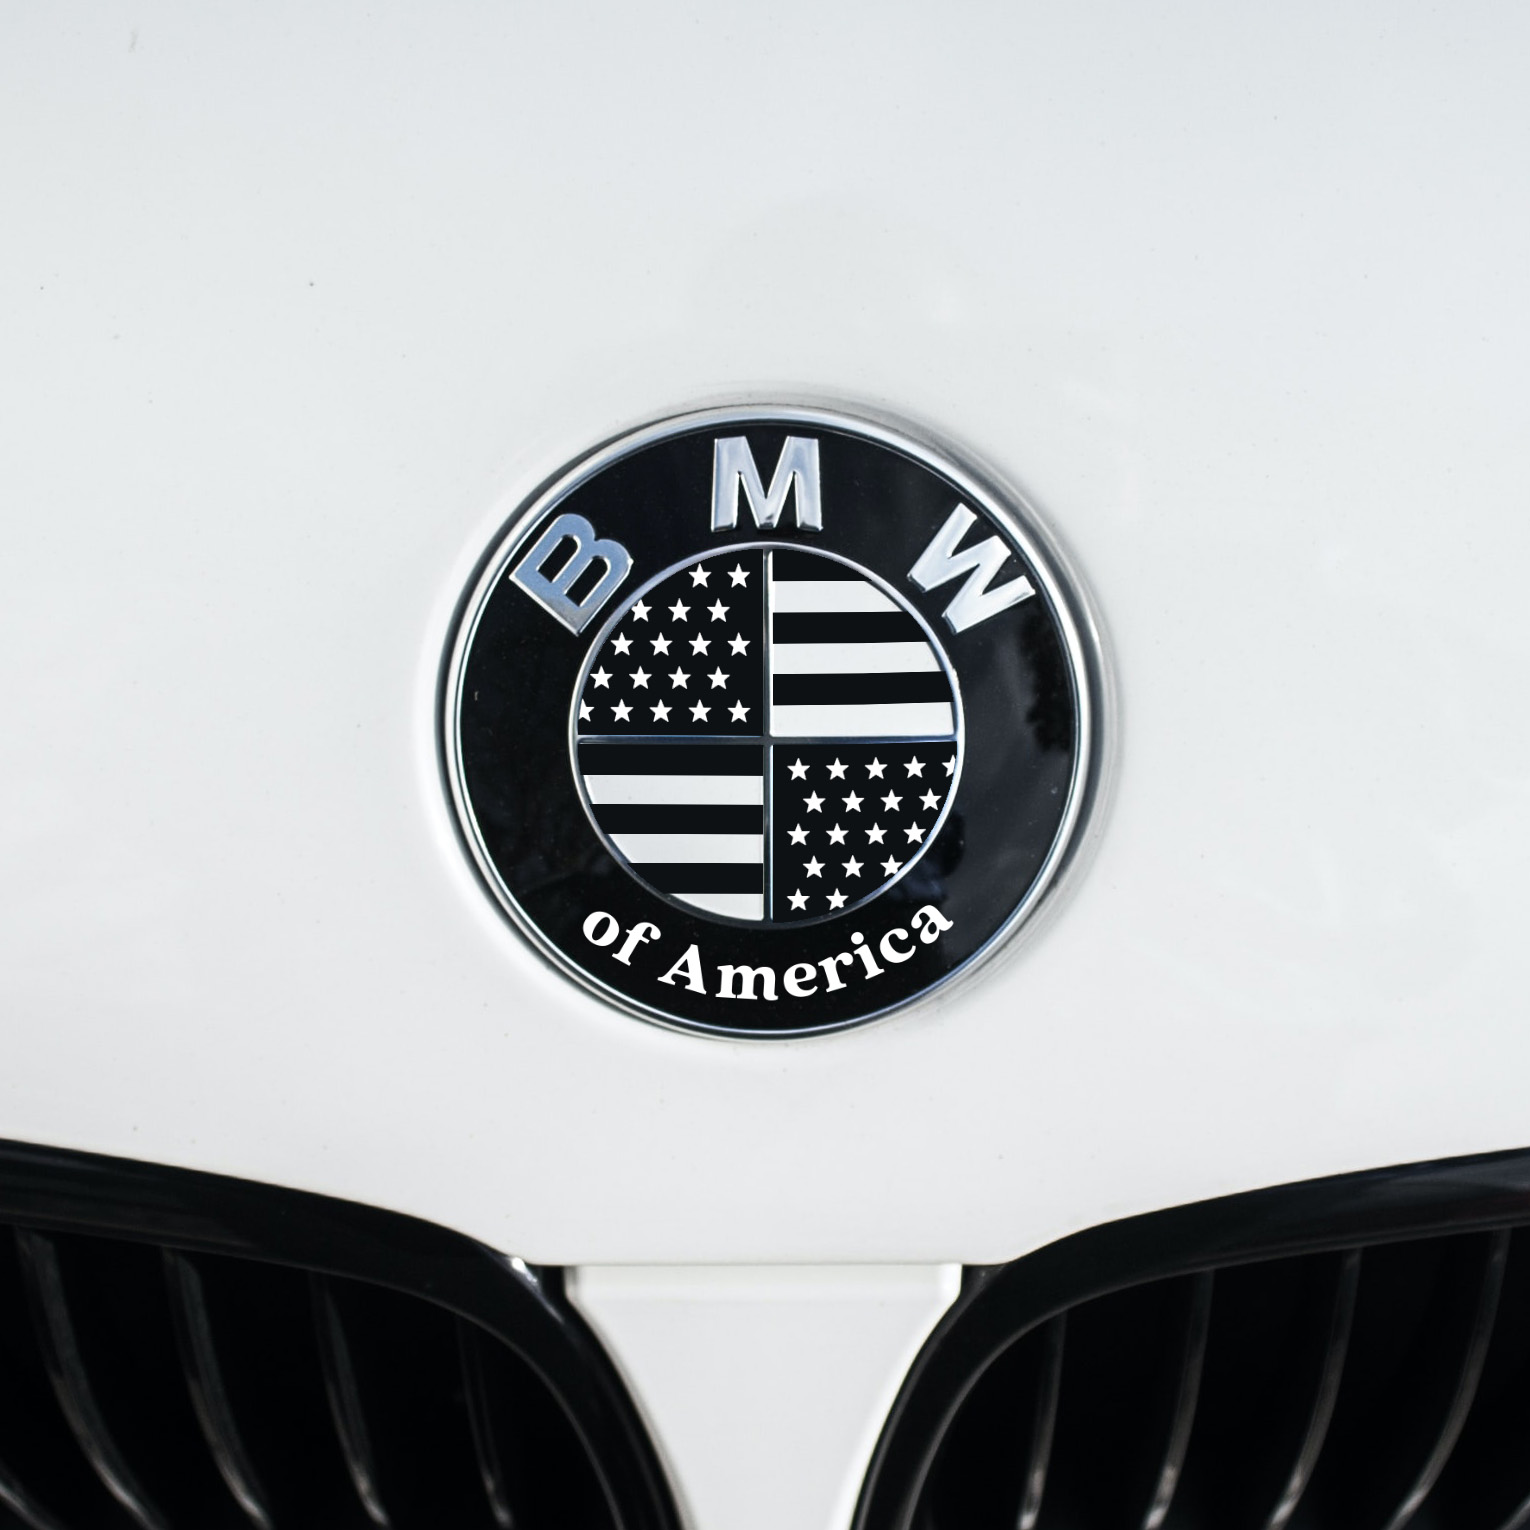
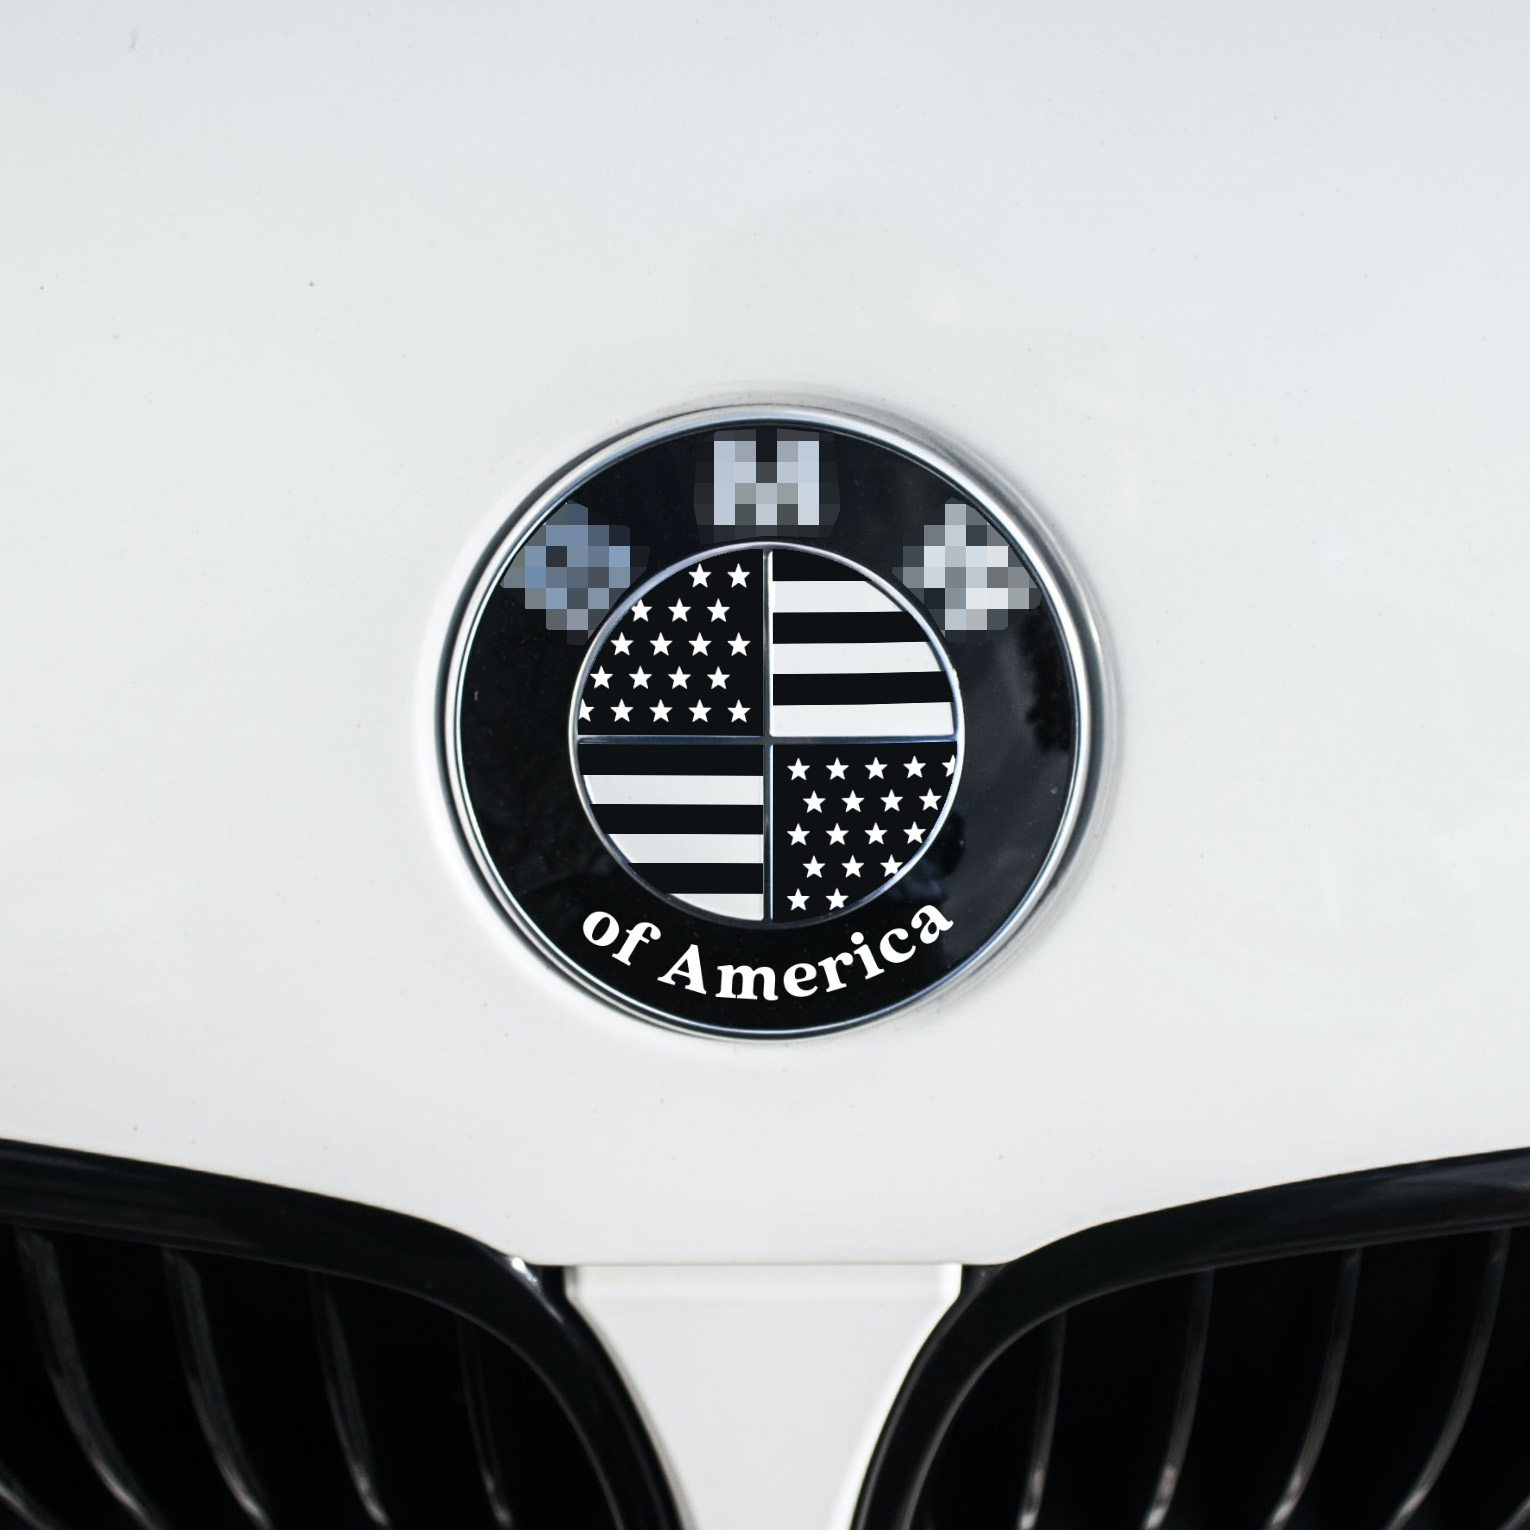
Added plain color overlay sticker

Changed region(s): [[0.3072, 0.3072, 0.4301, 0.4301], [0.5837, 0.3072, 0.6758, 0.4301], [0.4608, 0.2765, 0.5529, 0.3686]]

diff --git a/source/_posts/change-your-bmw-badge-color.md b/source/_posts/change-your-bmw-badge-color.md
@@ -1,0 +1,27 @@
+---
+title: Change Your BMW Badge Color
+date: 2020-07-31 13:27:34
+tags:
+- bmw
+- roundel
+- sticker
+categories:
+- Roundel
+col_class: col-6 col-md-4 col-xl-3
+product_id: ST_BMW_ROUNDEL_COLOR
+---
+
+Customize your vehicle emblem color. We offer a variety of color options.
+
+<!-- more -->
+
+Please select from black, matte black, red, orange, yellow, gold or silver colors. Feel free to reach out for custom colors!
+
+Sticker Store LLC is only selling the overlay sticker and not affiliated with distribution of any BMW parts, in particular original roundels. To purchase a roundel please visit your local BMW dealership.
+
+{% asset_img content-image any-color-for-your-bmw-badge-roundel-emblem.jpg 2048 1536 'We offer variety of colors for your BMW roundel emblem"' %}
+{% blockquote %}
+We offer variety of colors for your BMW roundel badge.
+{% endblockquote %}
+
+BMW badges size is different sizes on different models. Additionally, roundel is not necessarily of a same size on one vehicle. On newer BMW models the trunk badge is smaller than the hood badge. Please check your emblem size before placing the order.

diff --git a/source/_posts/texas-sticker-for-bmw-roundel.md b/source/_posts/texas-sticker-for-bmw-roundel.md
@@ -1,0 +1,20 @@
+---
+title: Texas Flag Sticker for the BMW Emblem
+date: 2023-07-31 12:56:29
+tags:
+- bmw
+- roundel
+- sticker
+categories:
+- Roundel
+col_class: col-6 col-md-4 col-xl-3
+product_id: ST_BMW_ROUNDEL_TEXAS
+---
+
+Add Texas flag on your BMW badge!
+
+<!-- more -->
+
+Please note that Sticker Store LLC is only selling the sticker and not affiliated with distribution of any BMW parts, in particular original roundels. To purchase a roundel please visit your regional BMW dealership.
+
+BMW badges size is different sizes on different models. Additionally, roundel is not necessarily of a same size on one vehicle. On newer BMW models the trunk badge is smaller than the hood badge. Please check your emblem size before placing the order.
